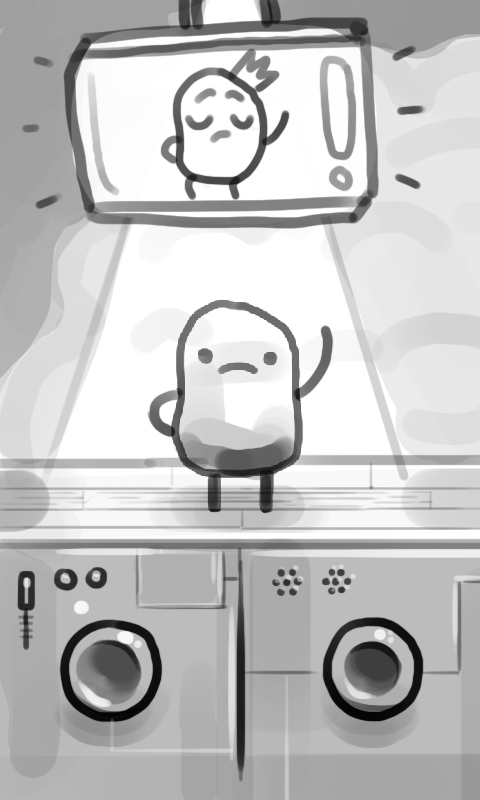
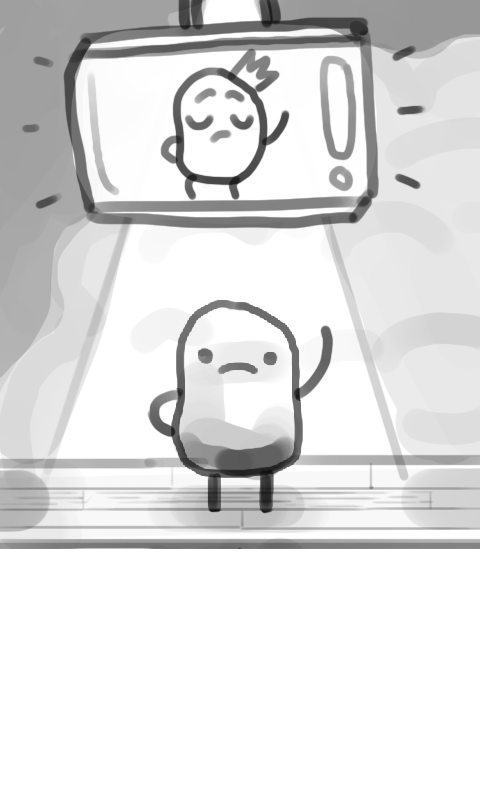
changed game size and desktop launcher size

diff --git a/core/src/main/com/bnw/nuggetdance/Debug/Interface/InterfacePlayDebug.java b/core/src/main/com/bnw/nuggetdance/Debug/Interface/InterfacePlayDebug.java
@@ -8,6 +8,8 @@ import com.badlogic.gdx.graphics.g2d.BitmapFont;
 import com.badlogic.gdx.graphics.g2d.SpriteBatch;
 import com.badlogic.gdx.graphics.g2d.TextureAtlas;
 import com.badlogic.gdx.scenes.scene2d.Stage;
+import com.badlogic.gdx.scenes.scene2d.ui.Button;
+import com.badlogic.gdx.scenes.scene2d.ui.Image;
 import com.badlogic.gdx.scenes.scene2d.ui.Label;
 import com.badlogic.gdx.scenes.scene2d.ui.Skin;
 import com.badlogic.gdx.scenes.scene2d.ui.Table;
@@ -46,6 +48,7 @@ public class InterfacePlayDebug {
     private Touchpad.TouchpadStyle knobStyle;*/
 
     private Skin skin, knobSkin;
+    private Image touchPad;
     private TextureAtlas buttonTexture;
     private ArrayList<TextButton> leftButtons;
     private ArrayList<TextButton> rightButtons;
@@ -64,7 +67,10 @@ public class InterfacePlayDebug {
         this.controlsTableBottom = new Table();
         this.debugTableInfo = new Table();
 
+
         /*
+        this.touchPad = new Image(new Texture(AssetConstants.SPR_UI_TOUCHPAD));
+
         knobSkin = new Skin();
 
         knobSkin.add("knobBackground", new Texture(AssetConstants.SPR_UI_KNOBBG));
@@ -135,13 +141,21 @@ public class InterfacePlayDebug {
 
         // modify button size
         for (int i=0;i<leftButtons.size();i++)  {
-            leftButtons.get(i).getLabel().setWrap(true);
-            leftButtons.get(i).getLabel().setWidth(100);
+            Label label = leftButtons.get(i).getLabel();
+            label.setWrap(true);
+            label.setWidth(100);
+
+            //set buttons invisible
+            //leftButtons.get(i).setColor(0,0,0,0);
         }
 
         for (int i=0;i<rightButtons.size();i++)  {
-            rightButtons.get(i).getLabel().setWrap(true);
-            rightButtons.get(i).getLabel().setWidth(100);
+            Label label = rightButtons.get(i).getLabel();
+            label.setWrap(true);
+            label.setWidth(100);
+
+            //set buttons invisible
+            //leftButtons.get(i).setColor(0,0,0,0);
         }
 
         // add listener
@@ -205,13 +219,19 @@ public class InterfacePlayDebug {
         stage.addActor(this.controlsTableTop);
         stage.addActor(this.controlsTableCentre);
         stage.addActor(this.controlsTableBottom);
+
         stage.addActor(this.debugTableInfo);
 
+        //adding touchpad to screen
+        stage.addActor(this.touchPad);
+        touchPad.setHeight(touchPad.getHeight()*ApplicationConstants.WIDTH/ touchPad.getWidth());
+        touchPad.setWidth(ApplicationConstants.WIDTH);
+        touchPad.setPosition(0,0);
 
-        /*knobLeft.setPosition(0,ApplicationConstants.HEIGHT/2);
-        knobRight.setPosition(ApplicationConstants.WIDTH/2,ApplicationConstants.HEIGHT/2);
-        stage.addActor(this.knobLeft);
-        stage.addActor(this.knobRight);*/
+        //knobLeft.setPosition(0,ApplicationConstants.HEIGHT/2);
+        //knobRight.setPosition(ApplicationConstants.WIDTH/2,ApplicationConstants.HEIGHT/2);
+        //stage.addActor(this.knobLeft);
+        //stage.addActor(this.knobRight);
     }
 
     public boolean render()  {

diff --git a/core/src/main/com/bnw/nuggetdance/Constants/AssetConstants.java b/core/src/main/com/bnw/nuggetdance/Constants/AssetConstants.java
@@ -7,7 +7,8 @@ package com.bnw.nuggetdance.Constants;
 public final class AssetConstants {
 
     // Art asset filepath
-    public static final String BACKGROUND_MAIN_1 = new String("art/background/sketch_main.JPG");
+    public static final String BACKGROUND_MAIN_1 = new String("art/background/mainbg_hd2.png");
+//    public static final String BACKGROUND_MAIN_1 = new String("art/background/sketch_main.JPG");
 
     public static final String BACKGROUND_PLAY_1 = new String("art/background/sketch_play.JPG");
     public static final String BACKGROUND_PLAY_2 = new String("art/background/sketch_play2.JPG");
@@ -15,11 +16,12 @@ public final class AssetConstants {
     //Touchpad skin
     public static final String SPR_UI_KNOBSKIN = new String("art/UI/knob_skin.png");
     public static final String SPR_UI_KNOBBG = new String("art/UI/knob_bg.png");
+    public static final String SPR_UI_TOUCHPAD = new String("art/UI/touch_pad.png");
 
     //Player body
     public static final String SPR_PLAYER_BALL = new String("art/player/ball.png");
     public static final String SPR_PLAYER_BELL = new String("art/player/bell.png");
-    public static final String SPR_PLAYER_BONE = new String("art/player/bone.png");
+    public static final String SPR_PLAYER_BONE = new String("art/player/player_debug.png");
     public static final String SPR_PLAYER_BOOT = new String("art/player/boot.png");
 
     //Player Arms (bone)

diff --git a/core/src/main/com/bnw/nuggetdance/Nuggets.java b/core/src/main/com/bnw/nuggetdance/Nuggets.java
@@ -9,6 +9,7 @@ import com.badlogic.gdx.graphics.Texture;
 import com.badlogic.gdx.graphics.g2d.SpriteBatch;
 import com.badlogic.gdx.graphics.g2d.freetype.FreeTypeFontGenerator;
 import com.badlogic.gdx.graphics.g2d.freetype.FreeTypeFontGenerator.FreeTypeFontParameter;
+import com.badlogic.gdx.utils.viewport.FillViewport;
 import com.badlogic.gdx.utils.viewport.FitViewport;
 import com.badlogic.gdx.utils.viewport.Viewport;
 import com.bnw.nuggetdance.Constants.ApplicationConstants;
@@ -18,6 +19,7 @@ import com.bnw.nuggetdance.Debug.Interface.InterfacePlayDebug;
 import com.bnw.nuggetdance.Debug.Interface.InterfaceScoreDebug;
 import com.bnw.nuggetdance.Misc.Others.Timer;
 import com.bnw.nuggetdance.Misc.SFX.SFXHandler;
+import com.bnw.nuggetdance.Screens.Box2dScreen;
 import com.bnw.nuggetdance.Screens.MainScreen;
 
 public class Nuggets extends Game {
@@ -39,7 +41,7 @@ public class Nuggets extends Game {
 	public void create () {
 		batch = new SpriteBatch();
 		gameCam = new OrthographicCamera();
-		gamePort = new FitViewport(ApplicationConstants.WIDTH, ApplicationConstants.HEIGHT, gameCam);
+		gamePort = new FillViewport(ApplicationConstants.WIDTH, ApplicationConstants.HEIGHT, gameCam);
 
 		fontGenerator = new FreeTypeFontGenerator(Gdx.files.internal("fonts/Digitalt.ttf"));
 		parameter = new FreeTypeFontParameter();

diff --git a/desktop/src/com/bnw/nuggetdance/desktop/DesktopLauncher.java b/desktop/src/com/bnw/nuggetdance/desktop/DesktopLauncher.java
@@ -9,8 +9,8 @@ public class DesktopLauncher {
 	public static void main (String[] arg) {
 		LwjglApplicationConfiguration config = new LwjglApplicationConfiguration();
 
-		config.width = ApplicationConstants.WIDTH;     //added in tutorial 2
-		config.height = ApplicationConstants.HEIGHT;   //
+		config.width = 480;     //added in tutorial 2
+		config.height = 800;   //
 		config.title = ApplicationConstants.TITLE;
 
 		new LwjglApplication(new Nuggets(), config);

diff --git a/core/src/main/com/bnw/nuggetdance/Debug/PlayerDebug.java b/core/src/main/com/bnw/nuggetdance/Debug/PlayerDebug.java
@@ -26,6 +26,7 @@ public class PlayerDebug extends Sprite implements Nugget{
     
     public PlayerDebug(Nuggets game, AssetManager assetManager){
         super(assetManager.get(AssetConstants.SPR_PLAYER_BONE, Texture.class));
+        this.setScale(0.25f);
         this.assetManager = assetManager;
         this.leftArm = new String(AssetConstants.SPR_BONE_ARM_LEFT_0);
         this.rightArm = new String(AssetConstants.SPR_BONE_ARM_RIGHT_0);

diff --git a/core/src/main/com/bnw/nuggetdance/Constants/ApplicationConstants.java b/core/src/main/com/bnw/nuggetdance/Constants/ApplicationConstants.java
@@ -6,8 +6,8 @@ package com.bnw.nuggetdance.Constants;
 public final class ApplicationConstants {
 
     //Application Window setup
-    public static final int WIDTH = 480;
-    public static final int HEIGHT = 800;
+    public static final int WIDTH = 1440;
+    public static final int HEIGHT = 2280;
     public static final String TITLE = "PlayerNugget Dance";
 
     //Player Constants
